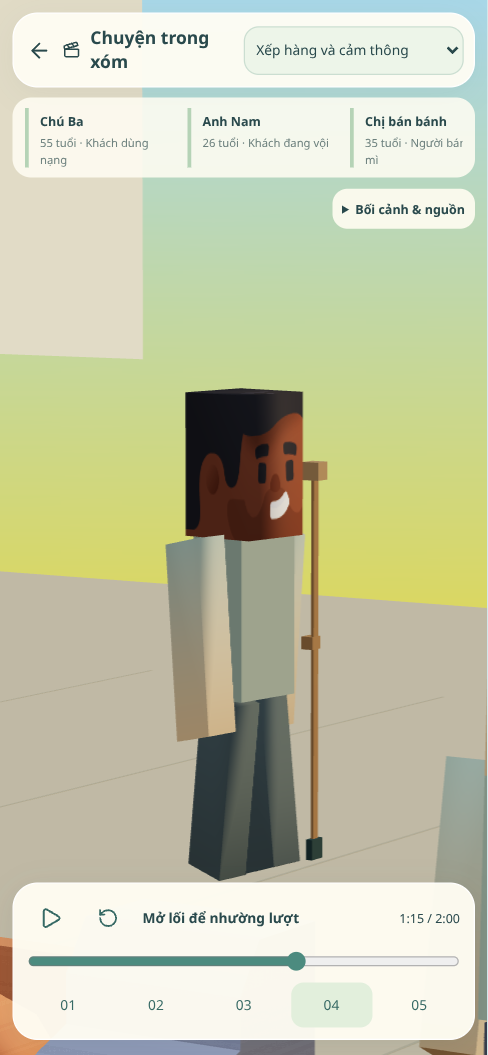
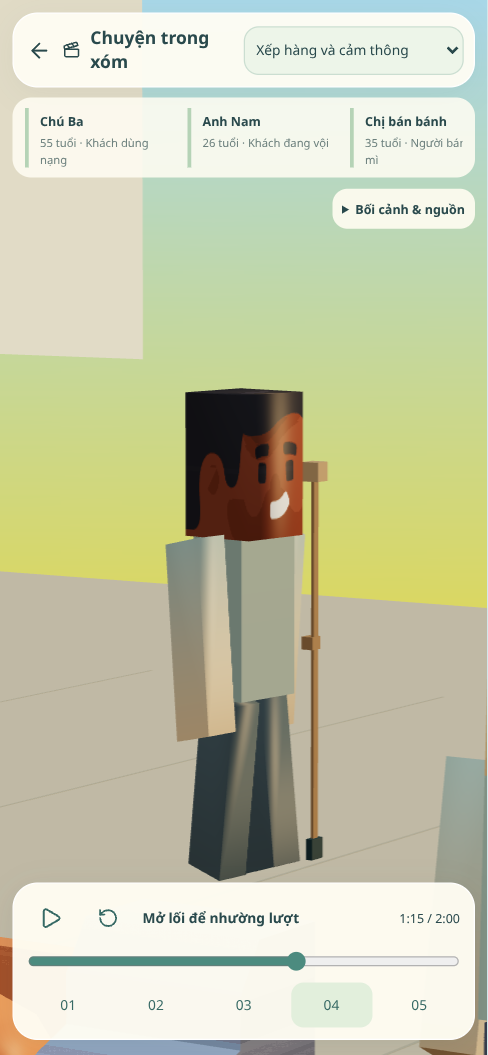
Preserve every dialogue turn under slow frames and scale crowd geometry by quality

diff --git a/lib/living/social.ts b/lib/living/social.ts
@@ -98,7 +98,7 @@ export function socialFrame(world: World, actors: Actor[], events: EpisodeEvent[
 }
 
 type EncounterLine = { speaker: string; text: string; gesture?: string };
-type Encounter = { key: string; speechPrefix: string; a: string; b: string; location: string; title: string; source: "script" | "ai"; lines: EncounterLine[]; startedAt: number; duration: number; cooldown: number };
+type Encounter = { key: string; speechPrefix: string; a: string; b: string; location: string; title: string; source: "script" | "ai"; lines: EncounterLine[]; lineIndex: number; lineStartedAt: number; cooldown: number };
 type Frame = ReturnType<typeof socialFrame>;
 
 /** Viewer-local presentation state. Keep this instance across world polling.
@@ -143,13 +143,21 @@ export class SocialDirector {
     };
     for (const encounter of this.encounters.values()) {
       const a = byId.get(encounter.a), b = byId.get(encounter.b);
-      if (!awake || !pairAvailable(a, b) || a?.location !== encounter.location || this.elapsed - encounter.startedAt >= encounter.duration) finish(encounter);
+      if (!awake || !pairAvailable(a, b) || a?.location !== encounter.location) { finish(encounter); continue; }
+      const duration = spokenSeconds(encounter.lines[encounter.lineIndex].text) + SOCIAL_TIMING.gapSeconds;
+      if (this.elapsed - encounter.lineStartedAt >= duration) {
+        if (encounter.lineIndex === encounter.lines.length - 1) { finish(encounter); continue; }
+        encounter.lineIndex++;
+        const nextStart = encounter.lineStartedAt + duration;
+        // A late frame must show the next reply before consuming its reading time.
+        encounter.lineStartedAt = this.elapsed - nextStart > .2 ? this.elapsed : nextStart;
+      }
     }
     const locked = (id: string) => [...this.encounters.values()].some(e => e.a === id || e.b === id);
     const start = (key: string, speechPrefix: string, a: Actor, b: Actor, title: string, source: Encounter["source"], lines: EncounterLine[]) => {
       const hash = hashSeed(key);
-      this.encounters.set(key, { key, speechPrefix, a: a.id, b: b.id, location: a.location, title, source, lines, startedAt: this.elapsed,
-        duration: lines.reduce((total, line) => total + spokenSeconds(line.text) + SOCIAL_TIMING.gapSeconds, 0), cooldown: SOCIAL_TIMING.minimumCooldownSeconds + hash % 26 });
+      this.encounters.set(key, { key, speechPrefix, a: a.id, b: b.id, location: a.location, title, source, lines, lineIndex: 0, lineStartedAt: this.elapsed,
+        cooldown: SOCIAL_TIMING.minimumCooldownSeconds + hash % 26 });
     };
     const startStored = (key: string, prefix: string, title: string, source: Encounter["source"], lines: EncounterLine[], location?: string) => {
       if (this.seen.has(key) || lines.length < 2) return;
@@ -198,13 +206,8 @@ export class SocialDirector {
       }
     }
     for (const encounter of this.encounters.values()) {
-      const at = this.elapsed - encounter.startedAt;
-      let cursor = 0, speaking: { line: EncounterLine; index: number } | undefined;
-      for (let index = 0; index < encounter.lines.length; index++) {
-        const line = encounter.lines[index], seconds = spokenSeconds(line.text);
-        if (at >= cursor && at < cursor + seconds) { speaking = { line, index }; break; }
-        cursor += seconds + SOCIAL_TIMING.gapSeconds;
-      }
+      const line = encounter.lines[encounter.lineIndex];
+      const speaking = this.elapsed - encounter.lineStartedAt < spokenSeconds(line.text) ? { line, index: encounter.lineIndex } : undefined;
       for (const [id, peerId] of [[encounter.a, encounter.b], [encounter.b, encounter.a]]) poses.set(id, { peerId, source: encounter.source,
         speaking: speaking?.line.speaker === id, gesture: speaking ? speaking.line.speaker === id ? speaking.line.gesture ?? "explain" : "listen" : "listen" });
       if (speaking) exchanges.push({ a: encounter.a, b: encounter.b, title: encounter.title, source: encounter.source,

diff --git a/components/city/three/people.ts b/components/city/three/people.ts
@@ -3,7 +3,7 @@ import { createPracticeBicycle } from "./activity-props.ts";
 import * as THREE from "three";
 import { createHumanGeometry, HumanMotion } from "./humans.ts";
 import { defaultAppearance, themes } from "../../../lib/city/appearance.ts";
-import { HUMAN_SCALE } from "../../../lib/city/scale.ts";
+import { HUMAN_SCALE, type Quality } from "../../../lib/city/scale.ts";
 import { groundElevation } from "../../../lib/city/ground.ts";
 import type { Actor } from "../../../lib/life.ts";
 import type { World } from "../../../lib/world";
@@ -11,7 +11,7 @@ import type { SocialPose } from "../../../lib/living/social.ts";
 
 /** Six geometry batches for the whole cast, including joints, faces and props. */
 export function createPeople(scene: THREE.Scene, capacity: number) {
-  const geometry = createHumanGeometry(), motion = new HumanMotion();
+  const geometry = createHumanGeometry(), coarse = createHumanGeometry(false), motion = new HumanMotion();
   type Shape = keyof typeof geometry;
   const budget: Record<Shape, number> = { box: 42, round: 18, head: 5, hair: 1, limb: 14, shoe: 2 };
   const material = new THREE.MeshPhongMaterial({ shininess: 22, specular: "#7c7668" });
@@ -44,6 +44,10 @@ export function createPeople(scene: THREE.Scene, capacity: number) {
   }
   return {
     geometry,
+    setQuality(quality: Quality = "balanced") {
+      for (const key of Object.keys(meshes) as Shape[]) meshes[key].geometry = quality === "sharp" ? geometry[key] : coarse[key];
+    },
+    collectGeometry(target: Set<THREE.BufferGeometry>) { for (const g of [...Object.values(geometry), ...Object.values(coarse)]) target.add(g); },
     draw(world: World, actors: Actor[], poses: Map<string, SocialPose>, seconds: number, dt: number, camera: THREE.Camera, selected: string, skip = new Set<string>()) {
       for (const mesh of Object.values(meshes)) { mesh.count = 0; mesh.userData.ids.length = 0; }
       for(const [id,bike] of bicycles) bike.visible = actors.some(a => a.id===id && a.kind==="cycle" && !a.walking);

diff --git a/lib/living/dialogue-grammar.ts b/lib/living/dialogue-grammar.ts
@@ -13,14 +13,15 @@ export class DialogueGrammar {
     const leads = ["Bạn có muốn", "Mình đang tính", "Hay là mình cùng", "Lát nữa ta thử", "Nếu bạn rảnh, mình cùng", "Hôm nay mình muốn", "Bạn thấy sao nếu mình cùng", "Mình có thể cùng bạn"];
     const tails = ["một lúc nhé", "ở đây nhé", "rồi nghỉ một chút nhé", "chậm rãi thôi nhé", "khi sẵn sàng nhé", "trước khi về nhé", "nếu bạn thấy tiện nhé", "cùng nhau nhé"];
     const used = [...previous];
+    const topic = topics[((serial % topics.length) + topics.length) % topics.length];
     const result: { speaker: string; text: string; gesture: string }[] = [];
     for (let line = 0; line < count; line++) {
       let text = "";
       for (let attempt = 0; attempt < 512; attempt++) {
         const n = (serial * 29 + line * 113 + attempt) % 512;
         text = line % 2
-          ? `${["Được, mình cùng", "Ừ, ta thử", "Mình đồng ý", "Nghe được đấy, mình cùng", "Mình sẵn sàng", "Vậy mình cùng", "Mình cũng muốn", "Cảm ơn bạn rủ, mình cùng"][n % 8]} ${topics[Math.floor(n / 8) % 8]} ${tails[Math.floor(n / 64) % 8]}.`
-          : `${leads[n % 8]} ${topics[Math.floor(n / 8) % 8]} ${tails[Math.floor(n / 64) % 8]}?`;
+          ? `${["Được, mình cùng", "Ừ, ta thử", "Mình đồng ý", "Nghe được đấy, mình cùng", "Mình sẵn sàng", "Vậy mình cùng", "Mình cũng muốn", "Cảm ơn bạn rủ, mình cùng"][n % 8]} ${topic} ${tails[Math.floor(n / 8) % 8]}.`
+          : `${leads[n % 8]} ${topic} ${tails[Math.floor(n / 8) % 8]}?`;
         if (!used.includes(text)) break;
       }
       used.push(text); result.push({ speaker: line % 2 ? b.id : a.id, text, gesture: line % 2 ? "open" : "explain" });

diff --git a/components/city/three/humans.ts b/components/city/three/humans.ts
@@ -21,7 +21,7 @@ function unitBounds<T extends BufferGeometry>(geometry: T): T {
 }
 
 /** Allocate once per city; share between all people and dispose with the scene. */
-export function createHumanGeometry(): {
+export function createHumanGeometry(sharp = true): {
   box: BufferGeometry;
   round: BufferGeometry;
   head: BufferGeometry;
@@ -31,11 +31,11 @@ export function createHumanGeometry(): {
 } {
   return {
     box: new BoxGeometry(1, 1, 1),
-    round: unitBounds(new RoundedBoxGeometry(1, 1, 1, 2, 0.16)),
-    head: unitBounds(new SphereGeometry(0.5, 14, 10)),
-    hair: unitBounds(new SphereGeometry(0.5, 14, 8, 0, Math.PI * 2, 0, Math.PI / 2)),
-    limb: unitBounds(new CapsuleGeometry(0.25, 0.5, 3, 10)),
-    shoe: unitBounds(new RoundedBoxGeometry(1, 1, 1, 2, 0.2)),
+    round: unitBounds(new RoundedBoxGeometry(1, 1, 1, sharp ? 2 : 1, 0.16)),
+    head: unitBounds(new SphereGeometry(0.5, sharp ? 14 : 12, sharp ? 10 : 8)),
+    hair: unitBounds(new SphereGeometry(0.5, sharp ? 14 : 12, sharp ? 8 : 6, 0, Math.PI * 2, 0, Math.PI / 2)),
+    limb: unitBounds(new CapsuleGeometry(0.25, 0.5, sharp ? 3 : 1, sharp ? 10 : 6)),
+    shoe: unitBounds(new RoundedBoxGeometry(1, 1, 1, sharp ? 2 : 1, 0.2)),
   };
 }
 

diff --git a/components/city/three/runtime.ts b/components/city/three/runtime.ts
@@ -554,6 +554,7 @@ export function createCity(
   host.dataset.fountainStreams = String(ambience.stats.fountainStreams);
   host.dataset.cloudLobes = String(ambience.stats.cloudLobes);
   const capacity = 72, people = createPeople(scene, capacity), boxGeo = people.geometry.box;
+  people.setQuality(input().quality);
   const modelActors = createModelActors(scene, assets);
   host.dataset.assetActors = String(modelActors.ids.size);
   const trafficBody = new THREE.InstancedMesh(
@@ -752,6 +753,7 @@ export function createCity(
       renderer.setPixelRatio(pixelRatio(activeQuality, devicePixelRatio));
       renderer.setSize(host.clientWidth, host.clientHeight);
       configureShadows();
+      people.setQuality(activeQuality);
     }
     lastTime = now; // simulationTime/worldTime apply the persisted pause anchor.
     const seconds = simulationTime(world, lastTime) / 1000;
@@ -988,6 +990,7 @@ export function createCity(
           }
       });
       assets.collectAndClose({ geometries, materials, textures });
+      people.collectGeometry(geometries);
       geometries.forEach((g) => g.dispose());
       materials.forEach((m) => m.dispose());
       textures.forEach((t) => t.dispose());

diff --git a/app/api/health/route.ts b/app/api/health/route.ts
@@ -35,6 +35,7 @@ async function health() {
     await database().prepare("SELECT id FROM agent_experiences LIMIT 1").all();
     await database().prepare("SELECT id FROM site_metrics LIMIT 1").all();
     await database().prepare("SELECT id FROM visitor_exchanges LIMIT 1").all();
+    await database().prepare("SELECT id FROM client_logs LIMIT 1").all();
     lastTick = await database()
       .prepare(
         "SELECT id, started_at, finished_at, status, model, event_id, neurons_est FROM tick_runs ORDER BY started_at DESC LIMIT 1",

diff --git a/MEMORY_SHORT.md b/MEMORY_SHORT.md
@@ -11,3 +11,7 @@
 - Shadowbudget eco0/balanced512mobile1024desktop/sharp2048, shadowfrustumtheonhânvật36m thay190m, LOD8unit; render-errorfallback2D cótelemetry. Cầnbrowser/perf. pnpm audit prod đã cóadvisory, cầnphânloạivàpinpatchtrướcrelease. Check/lint đangrunwork/main-*-final.log. Prod11 chưađổi.
 
 - Dependency patch đã cài bằngpnpm policy nguyênvẹn: Next/eslint-config-next16.4.1, Zod4.6.6; compatibleoverrides Babel7.29.6/browserlist4.28.7/baseline2.11/source-map-js1.2.2/fast-uri3.1.9/sharp.35.5. Chưa xác minh app sauZodmajor; tiếpcheck/lint/full29suite/build/API/browser/audit. Reviewdocdocs/MAIN_REVIEW_2026-10-27.md cófindingsvàbacklog trungthực; finalmetriccònchờ.
+
+# Browser regression bắt thêm thoại/FPS
+- StudioGemini8cases×5shot đạt; pauseidle khôngvẽGPU. API mớiD1/migrationindex/pulse ownerguard/limits/retry đều đạt. Nhưngsocialbrowser chỉ5/6 câu; motion12frames9s/442445triangles/67calls/0collision. ĐãsửaSocialDirector giữlineindex/lineStartedAt, mỗi lateframechỉtiếpmộtlượt; thêmtest4.7sframe thấyđủ6(29socialcaseđạt). Grammar giữtopicchung, test800câu/50history+topicđạt.
+- GiữGeminiqualitycao cho sharp, crowd balanced/eco geometrynhẹ lại,6batch/ID khôngđổi; test switchquality/finereturn/vertexbudget. Cầnbuildvàretestbrowser. Healthmới checkclientlogs để0006thiếu khôngbáoready. NativeDBoverviewprod12tables chưaclientlogs xácnhận0006chưaápdụng; prod11.

diff --git a/docs/MAIN_REVIEW_2026-10-27.md b/docs/MAIN_REVIEW_2026-10-27.md
@@ -32,4 +32,4 @@ Tag theo cặp/đổi vai, xe đạp di chuyển có collision toàn thân, thú
 
 ## Bản vá dependency
 
-Audit production ban đầu báo 23 advisory (3 critical, 7 high, 9 moderate, 4 low). Đây là kết quả dependency graph, không phải khẳng định mọi advisory đều có đường khai thác trên Worker đang chạy. Đang cập nhật bản vá tương thích cho Next/eslint config, Zod và dependency chuyển tiếp; giữ lockfile, minimum release age và kiểm tra build/API sau cập nhật. Kết quả audit cuối được bổ sung sau khi cài xong.
+Audit production ban đầu báo 23 advisory (3 critical, 7 high, 9 moderate, 4 low). Đây là kết quả dependency graph, không phải khẳng định mọi advisory đều có đường khai thác trên Worker đang chạy. Đã cài Next/eslint-config-next 16.4.1 và Zod 4.6.6, pin các bản vá Babel/browserslist/baseline/source-map-js/fast-uri/sharp. Giữ minimum release age, trustLockfile và strict build policy. Audit production sau cập nhật: **0 advisory** trên 247 dependency/optional dependency; kết quả này có thời điểm, không phải cam kết mọi lỗi bảo mật đã biến mất. TypeScript/lint và 29 suite đã đạt sau cập nhật. Drizzle generate trên bản sao migration trả “No schema changes”.
